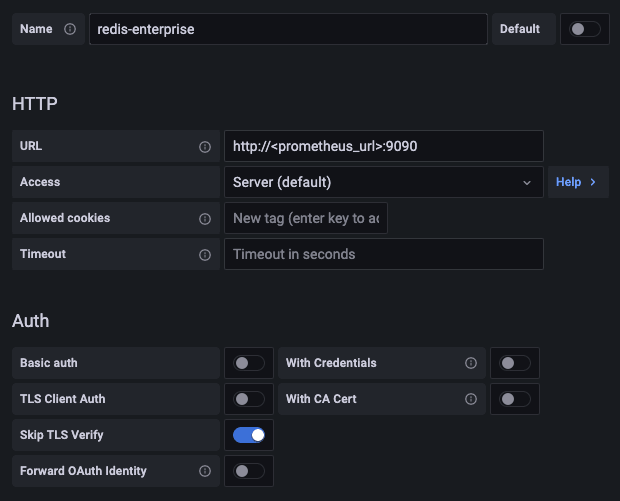
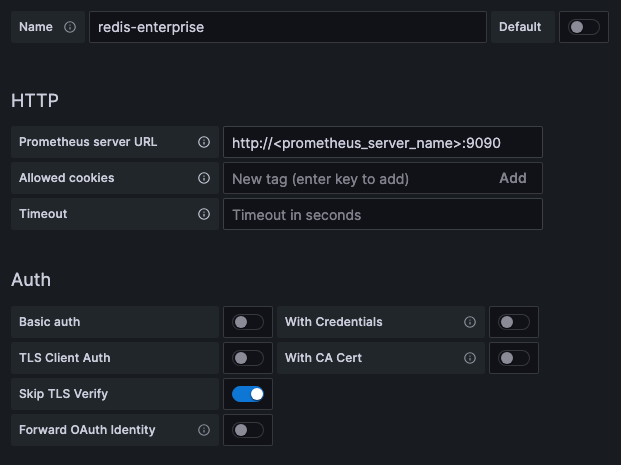
Fix for DOC-2942

diff --git a/content/rs/clusters/monitoring/prometheus-integration.md b/content/rs/clusters/monitoring/prometheus-integration.md
@@ -137,7 +137,7 @@ We recommend running Prometheus in Docker only for development and testing.
     1. Enter the Prometheus configuration information:
 
         - Name: `redis-enterprise`
-        - URL: `http://<your prometheus address>:9090`
+        - URL: `http://<your prometheus server name>:9090`
         - Access: `Server`
 
         {{<image filename="images/rs/prometheus-connection.png" alt="The Prometheus connection form in Grafana.">}}{{< /image >}}
